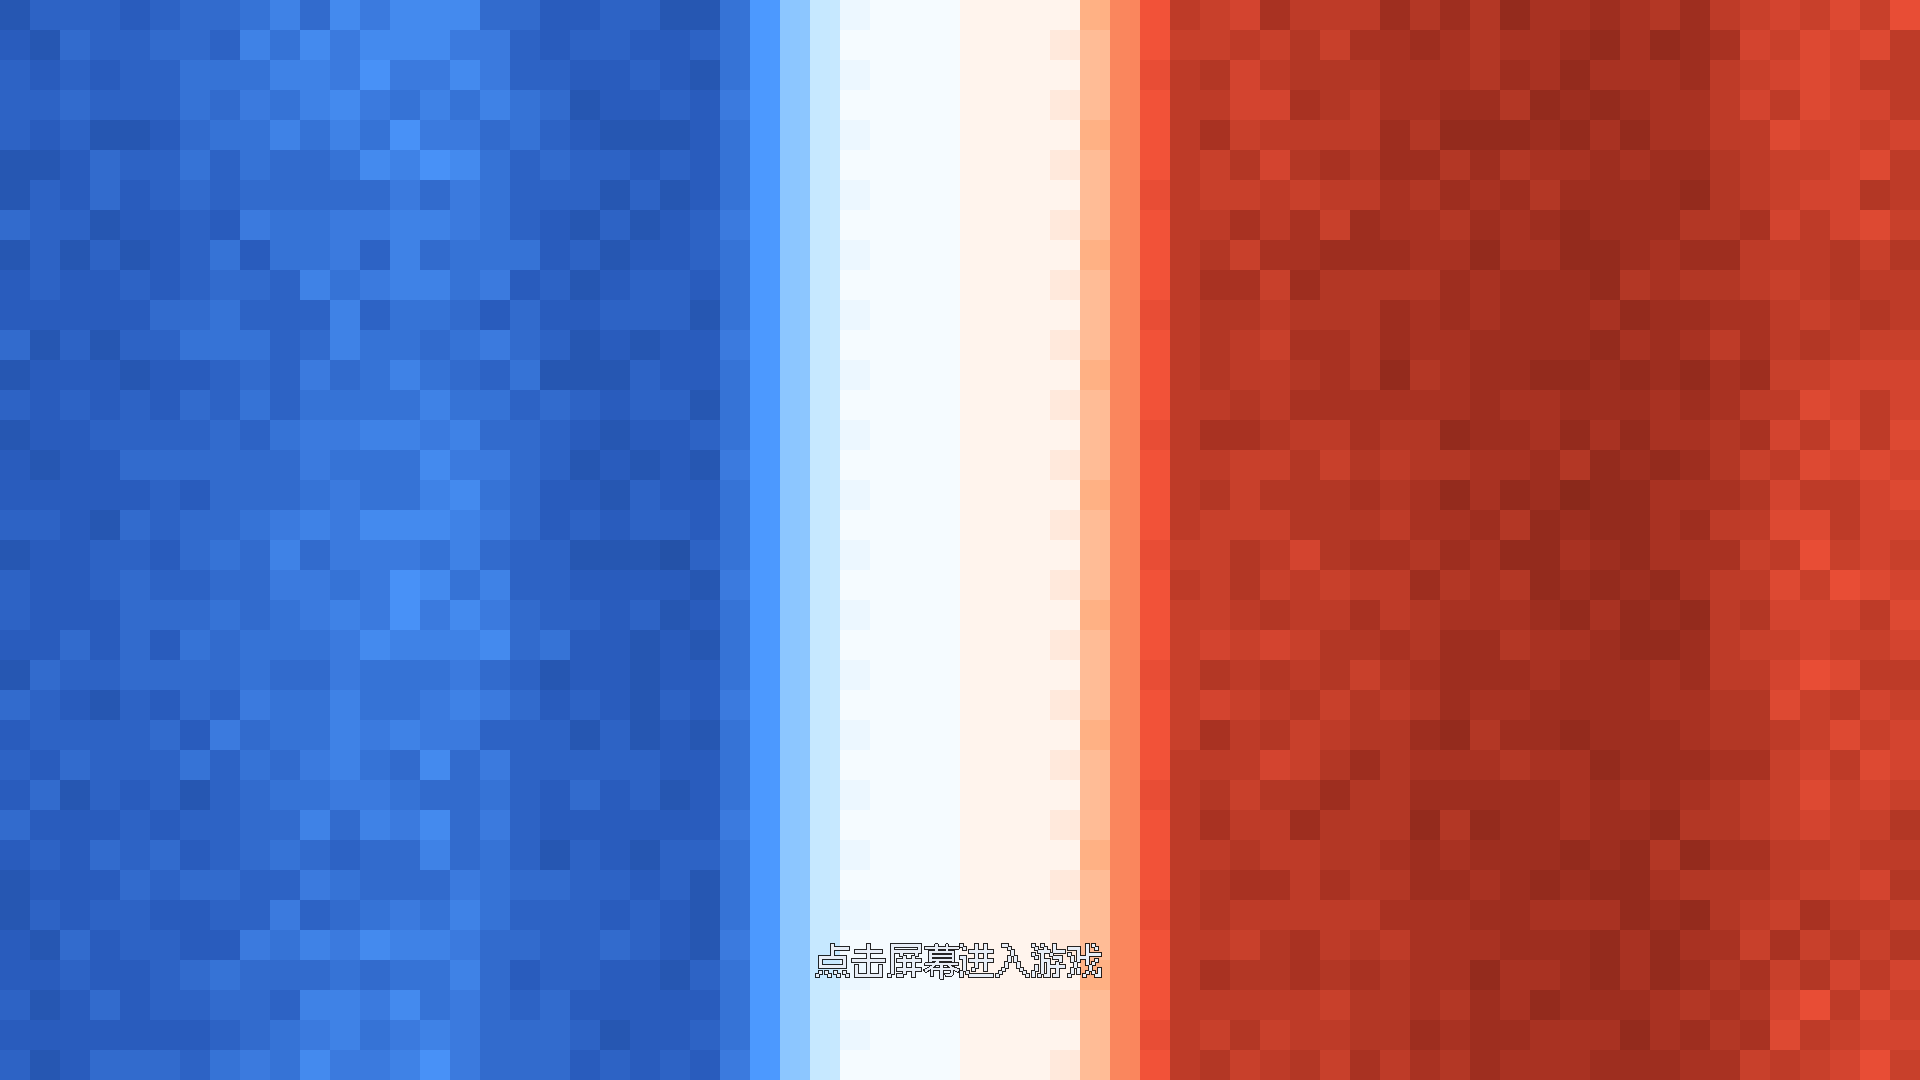
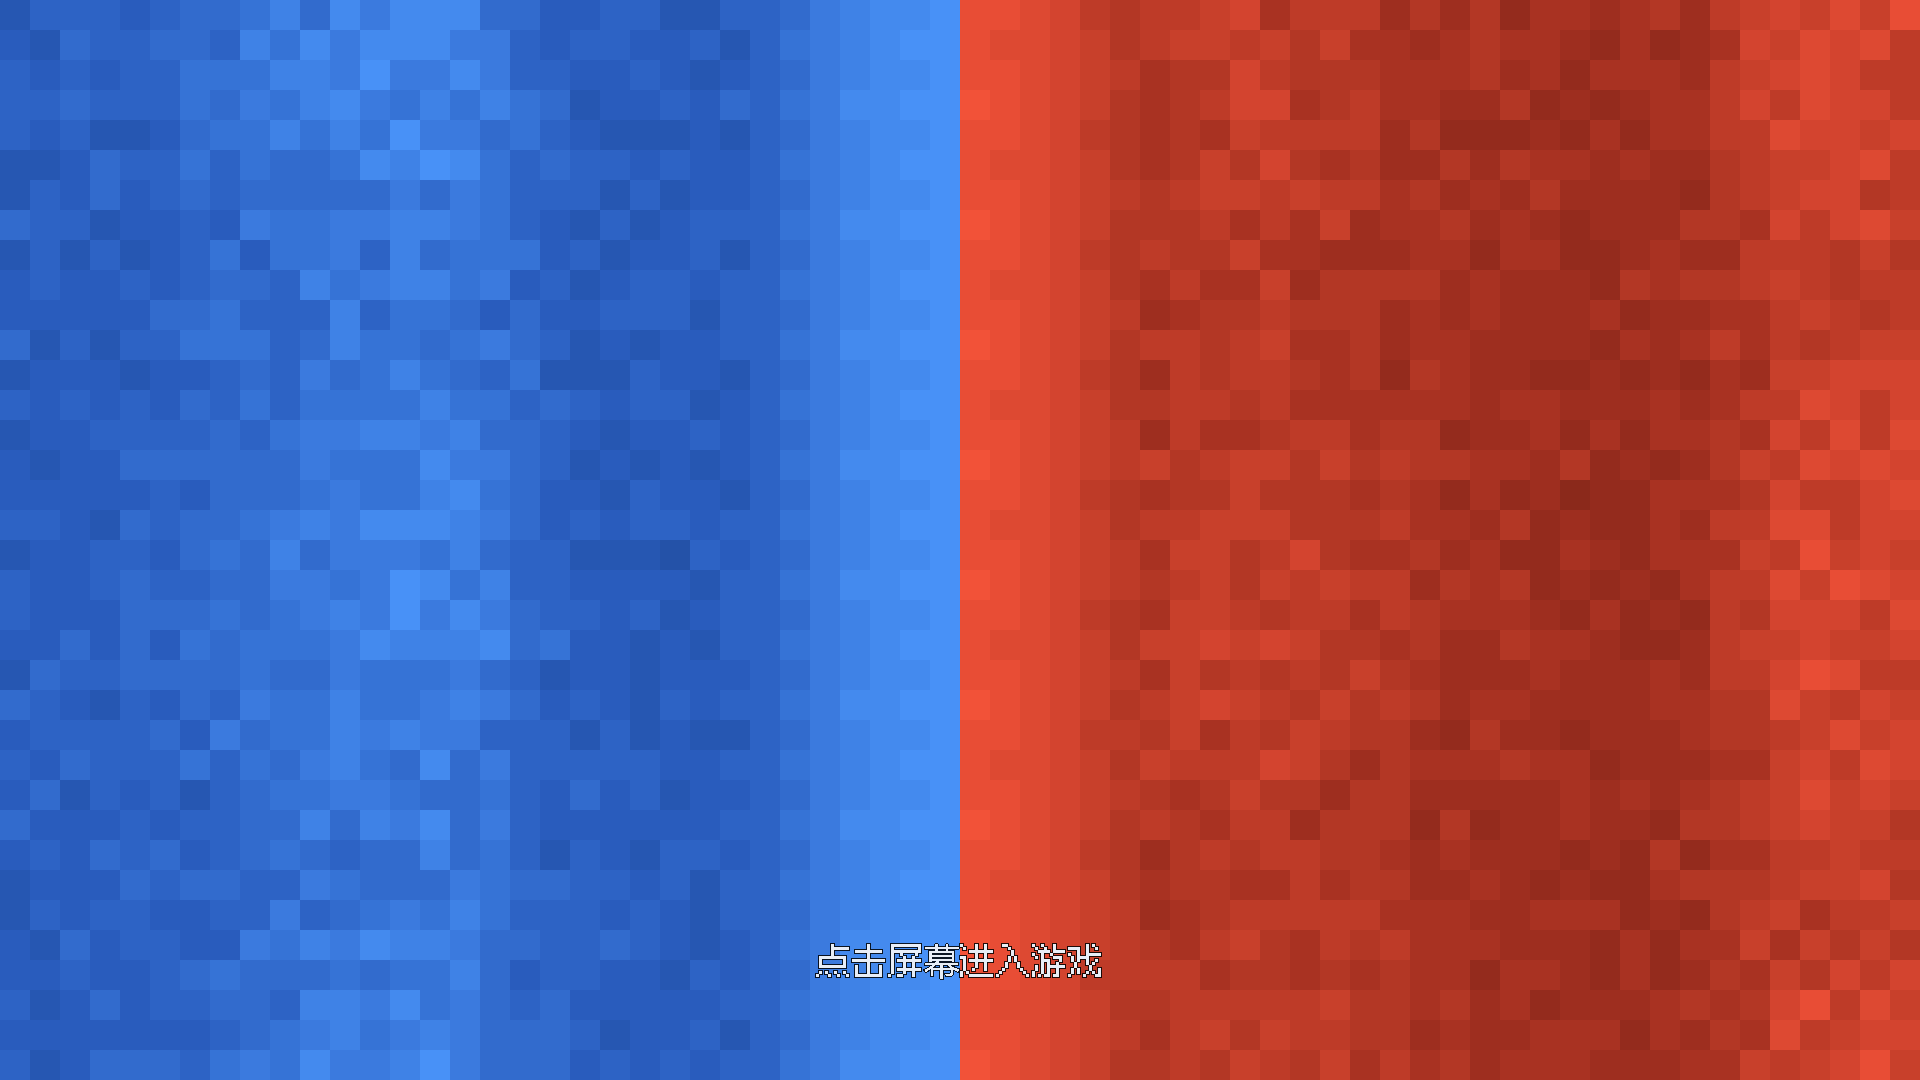
wip(proto): 对波加载界面 v2b — 丝滑阻尼震颤 + 全屏光glow + shake
反馈1续: 连击震颤改阻尼正弦(来回摆动衰减),去急停转折
反馈2续: 扩散环→全屏光glow(中央向外散发+自然衰落),删崩溃白闪(糊白元凶)
反馈Q4: 加 shake(连击轻/崩溃强,脚本衰减)
修复: glow 在 burst=0 时污染僵持期中央,加 smoothstep 淡入因子

Changed region(s): [[0.375, 0.0, 0.625, 1.0]]

diff --git a/prototypes/wave_clash_title/README.md b/prototypes/wave_clash_title/README.md
@@ -49,8 +49,8 @@ t=1.05  ─┘
          │  center_amp 微脉动 0.9~1.1（局部，不全屏闪）
 点击 → 连击盖过（C 型）：
   · 胜方 phase 速度拉到 CHARGE(2.4)，败方压到 LOSER(0.18) → 胜方波加速冲锋、败方变疏弱
-  · 4 击蓄力：中线 clash_pos **围绕中央小范围震颤**（朝胜方弹一小截再回弹）+ hit_flash 每击 1→0 局部闪
-  · 第 5 下崩溃决堤：clash_pos 从中央一鼓作气冲到 0/1（CUBIC）+ burst 扩散环 0→1.2 + 短促白闪 1.30
+  · 4 击蓄力：中线 clash_pos **阻尼震颤**（被撞后阻尼正弦来回摆动衰减，丝滑）+ hit_flash 每击 1→0 局部闪 + 每击轻微 shake
+  · 第 5 下崩溃决堤：clash_pos 从中央一鼓作气冲到 0/1（CUBIC）+ **全屏光 glow**（burst 0→1.3 中央光晕扩展到全屏再自然衰落，取代旧窄环+白闪）+ 强 shake
   · base_L flood = mix(0.35, 0.62, |clash-0.5|*2) 让胜方色随盖过铺满（上限 0.62 = 饱和色不糊白）
 ```
 
@@ -64,14 +64,16 @@ t=1.05  ─┘
 - `wave_time`：仅用于波纹纵向漂浮（与推进相位解耦）。
 - `dither_amt = 1.0`：Bayer 抖动强度（×1 档）。
 - `hit_flash`：连击撞击局部闪（每击 0→1→0）。
-- `burst`：崩溃扩散环 0→1.2（向外扩张的能量环；>0.55 后渐隐）。
+- `burst`：崩溃全屏光爆发 0→1.3（中央光晕向外散发；fade=smoothstep(0,0.15)·(1-smoothstep(0.55,1.25))，**burst=0 时无 glow**）。
+- `shake`：受击屏幕抖动（UV 偏移；脚本驱动衰减）。
 - 颜色 ramp（蓝/红/白）写死在 shader 里。
 
 ## 脚本旋钮（wave_clash_title.gd）
 
 - `BASE_PHASE_SPEED=0.45`：僵持期波相位速度。
 - `CHARGE_PHASE_SPEED=2.4` / `LOSER_PHASE_SPEED=0.18`：盖过期胜方加速 / 败方压制。
-- `_run_combo()` 的 `strikes`/`kick`：连击蓄力击数（4 击）与每击震幅（**中线围绕 0.5 小范围震颤**，朝胜方弹 kick≈0.022→0.034 再回弹）；崩溃段 clash 才从中央冲到 0/1。
+- `SHAKE_HIT=0.0045` / `SHAKE_BURST=0.016` / `SHAKE_DECAY=0.05`：连击轻 shake / 崩溃强 shake / 衰减速度。
+- `_run_combo()` 的 `strikes`/`kick`：连击蓄力击数（4 击）与每击震幅（中线 `_apply_kick` **阻尼正弦震颤** kick≈0.024→0.039）；崩溃段 clash 从中央冲到 0/1 + burst 全屏光。
 
 ## 验收
 
@@ -80,10 +82,10 @@ t=1.05  ─┘
 **v2 新增（2026-05-29，静态截图已验证）**：
 - ✓ 2D 格点颗粒去掉水平条纹（shot_5，去"数据图感"）
 - ✓ Bayer dither 棋盘交错渐变（shot_3 中央过渡带）
-- ✓ 连击撞击局部闪（shot_7）
-- ✓ 崩溃扩散环可见、不过曝（shot_8）
+- ✓ 连击撞击局部闪（shot_7，中线居中）
+- ✓ 崩溃全屏光从中央散发（shot_8，glow 大光晕铺向全屏，取代旧窄环）
 - ✓ 盖过末态饱和蓝不糊白（shot_9）
-- ⏳ **待 F6 实跑确认**：波生命周期淡入淡出、非对称浪头推进形态、连击 4 击+崩溃节奏
+- ⏳ **待 F6 实跑确认**：波淡入淡出 / 浪头推进 / 连击阻尼震颤+轻 shake / 崩溃全屏光自然衰落+强 shake
 
 ## 当前状态
 
@@ -104,3 +106,7 @@ t=1.05  ─┘
 - **【v2 · "数据条纹图感"根因】** 旧版"整行一个 hash 亮度"形成水平长条。正解：2D 格点 hash → 随机颗粒。
 - **【v2 · 崩溃过曝】** `intensity 1.4 + flood 提亮`叠加把整屏推到顶档糊白、扩散环不可见。
   正解：白闪峰值降到 1.30 且短促（0.07s）+ flood 上限降到 0.62（饱和色不泛白）+ 扩散环在白闪回落后才扩张。
+- **【v2b · 扩散环→全屏光 glow】** 窄环不够"全屏散发"。改成以中央为心的宽光晕(glow_w 随 burst 0.12→1.6 扩到全屏)，
+  并去掉 intensity 白闪(全屏乘法是糊白元凶)、全靠 glow 加法提供光。震颤改阻尼正弦(丝滑)、加 shake(连击轻/崩溃强)。
+- **【v2b · glow 污染僵持期 bug】** burst=0 时 `(1-smoothstep(0.55,1.25,0))=1`，glow 在平时仍激活、中央挂亮斑(verify 色块 15→9)。
+  正解：fade 乘 `smoothstep(0,0.15,burst)` 淡入因子 → burst=0 完全无 glow，仅崩溃时爆发。
